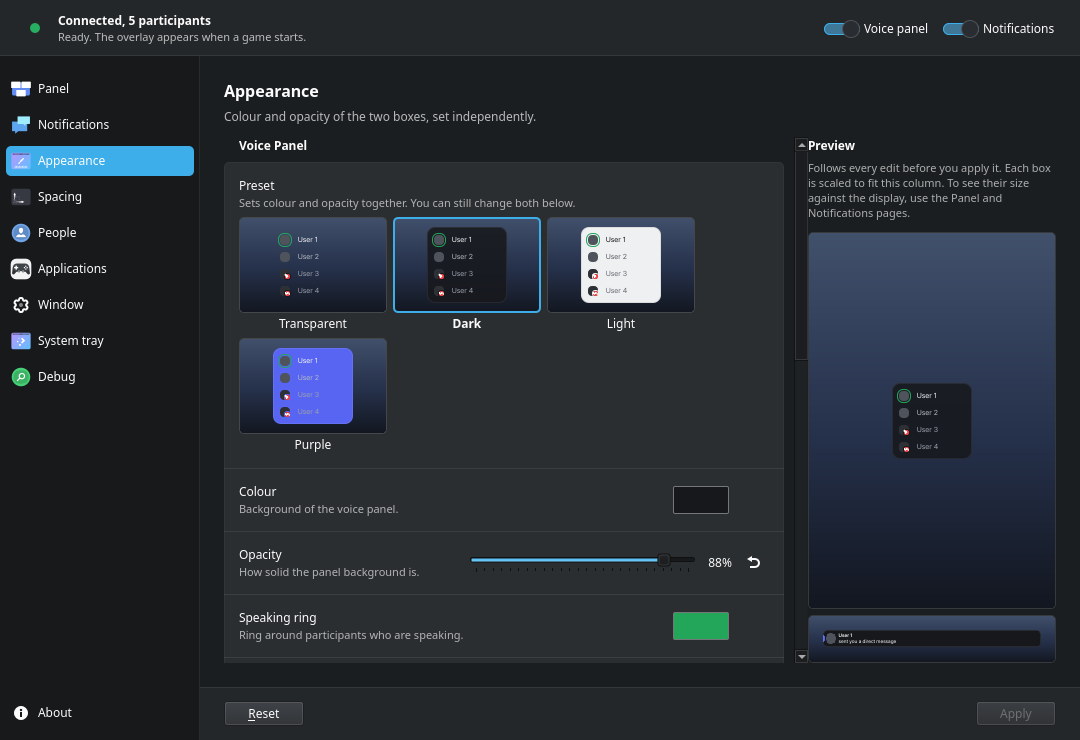
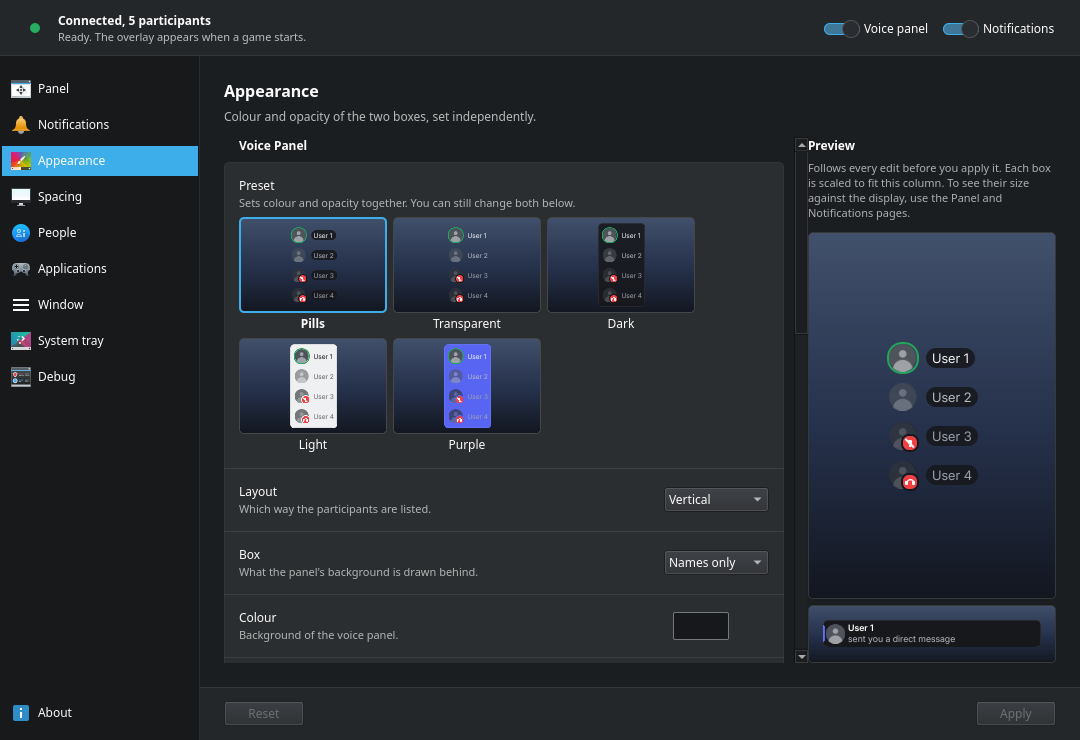
words: the numbers that ship, the picture that ships, and the file that says which packages may not be deleted
The README said the font atlas is "a few megabytes" where the same tree says
80 MB in three places, called the shim 14 KB where it has been 18,728 bytes
since 0.1.4, promised that uploads and font rebuilds never happen inside a
frame -- which is false for OpenGL by design, where the swap call is all there
is -- and gave the detection's four signals with the first two swapped, an
order entry 97 is the defect behind. Its Appearance screenshot was dated
3 August and showed four presets, no Box control and no Quiet avatars slider,
two lines under a sentence naming five; it is what Discover shows too.
Retaken offscreen, in a sandbox with a synthetic channel, at the same size.

packaging/EXEMPLARS.md searched for `0\.1\.0-[0-9]+` and then said the later
packages are rebuildable and under no rule -- so it gave a clean-up permission
to delete the only defective binaries for entries 103, 138, 139, 140, 144-147
and this month's daemon measurements. Six are named now, with whether each can
actually be rebuilt: two can, and 73 of the 88 packages here came from a
recipe that is not in git at all.

Also: __pycache__ and the two font files the ignore pattern missed.

DESIGN 158, 176, 181.

diff --git a/packaging/EXEMPLARS.md b/packaging/EXEMPLARS.md
@@ -7,9 +7,12 @@ for a test that fails against the defective binary, and for the pre-git era the
 packaged artifact is the only defective binary there is.
 
 Which of them anything still names, so that a clean-up knows what it may not
-touch. Found with `grep -ohE '0\.1\.0-[0-9]+' DESIGN.md tests/ CLAUDE.md`;
-the rest of the 0.1.0 series is kept with them, since a citation can be added
-at any time and a package cannot be rebuilt.
+touch. Found with
+`grep -rohE '0\.1\.[0-9]+-[0-9]+' DESIGN.md CLAUDE.md tests/ | sort -u -V` --
+the version that stood here was hardcoded to `0\.1\.0-`, so it could not find
+a later exemplar even in principle, and six had quietly become one. The rest of
+the 0.1.0 series is kept with them, since a citation can be added at any time
+and a package cannot be rebuilt.
 
 | Package | Cited by |
 | --- | --- |
@@ -24,5 +27,42 @@ at any time and a package cannot be rebuilt.
 | 0.1.0-64, -65 | `tests/CMakeLists.txt`, the window tests (padding, empty views, the moved channel) |
 | 0.1.0-67 | `tests/gl_unpack_state.cpp` (the ES3 GL_INVALID_ENUM the backend leaves) |
 
-The packages from 0.1.2 on are rebuilds of tagged releases; a tag can be
-rebuilt with `PKGBUILD`, so they are under no such rule.
+## And six later ones, which this file used to give away
+
+| Package | Cited by | Rebuildable? |
+| --- | --- | --- |
+| 0.1.3-1 | DESIGN entry 94 (the 32-bit hardening, 0 `_chk` symbols) | **yes** -- `PKGBUILD` at `#tag=v0.1.3` |
+| 0.1.3-7 | `tests/daemon_reconnect.cpp`, `tests/CMakeLists.txt`, DESIGN 103 (2215 connections in five seconds) | **no** -- built from `PKGBUILD.local` two commits before the v0.1.3 tag |
+| 0.1.4-1 | `tests/display_change_while_open.cmake`, `tests/daemon_note_expiry.cpp`, `tests/version_agrees.cmake`, DESIGN 103/110/111/112 | **yes** -- `PKGBUILD` at `#tag=v0.1.4` |
+| 0.1.8-1 | DESIGN 138/139/140 (the bridge's drawing flag, the window's four spawns, two windows) | **no** -- its recipe hash is in no git object at all |
+| 0.1.10-1 | `tests/fonts_lifecycle.cpp`, `tests/gl_context_cycle.cpp`, `tests/CMakeLists.txt`, DESIGN 144/145 | from a commit, not a tag: there is no `v0.1.10` |
+| 0.1.10-2 | `tests/gl_inside_gamescope.cmake`, `tests/vk_present_draw.cpp`, DESIGN 147, and entries 159-164's daemon measurements | **no** -- built from an uncommitted working tree |
+
+**So "a tag can be rebuilt" was true of two of the six.** The sentence that
+stood here -- "The packages from 0.1.2 on are rebuilds of tagged releases; a
+tag can be rebuilt with `PKGBUILD`, so they are under no such rule" -- gave a
+clean-up permission to delete the only defective binaries for entries 103, 138,
+139, 140, 144, 145, 146, 147 and the September repairs. Measured corpus-wide:
+**73 of the 88 packages here were built from a recipe that is not in git** (63
+pre-git plus ten intermediate pkgrels), and three of them -- 0.1.8-1, 0.1.8-2
+and 0.1.10-2 -- from a recipe that exists in no blob anywhere in this
+repository. `packaging/*.pkg.tar.*` is in `.gitignore`, so no copy exists
+anywhere else either.
+
+**Nothing in this directory is deleted without checking this table first**, and
+the table is regenerated with the grep above rather than edited by hand.
+
+## What an exemplar cannot refute for ever
+
+`kAbiVersion` has been 6 since the first commit, so 0.1.0-10 -- entry 129's
+exemplar -- refutes "did anything reach the framebuffer" rather than the
+present hook itself: its failure reads `state read failed (abi mismatch or
+writer contention)`. **Every future ABI bump converts one more historical
+exemplar's refutation into an ABI mismatch**, while the record goes on reading
+"the test fails against the old binary". Written here because it is true of the
+artifacts and of nothing in DESIGN.
+
+Entries 144 and 145 leave no artifact trace at all: the fonts module is a
+statically linked, hidden-visibility unit, so there is no cheap way to tell
+0.1.10-1's defective copy from -2's fixed one except by running the test --
+which makes those tests the whole record.

diff --git a/README.md b/README.md
@@ -236,8 +236,8 @@ VOCEM_DISABLE=1 the-game
 #### 1.2 OpenGL
 
 OpenGL has no layer mechanism, so the library is preloaded instead. The package
-installs a 14 KB shim and an `environment.d` file that preloads it into everything
-you start after your next login.
+installs an 18 KB shim and an `environment.d` file that preloads it into
+everything you start after your next login.
 
 To start one program with it, without the session-wide preload:
 
@@ -256,10 +256,14 @@ overlay does not draw on the launcher itself.
 The overlay appears in games and leaves everything else alone. It decides from,
 in order:
 
-* a Steam app id in the environment
-* a launcher's own identifiers: Lutris, Heroic, umu, gamescope, Minecraft
-* the game's own arguments
-* the desktop entry it was started from
+* a launcher's own identifier: Lutris, Heroic or Prism, each of which names the
+  game itself
+* a Steam app id, when it is digits and not all zero
+* the identifiers that only say a game is being run: umu, itch, gamescope
+* the game's own arguments, which is how Minecraft under Mojang's launcher is
+  found
+* the desktop entry it was started from, and failing that the one installed
+  entry that names this program
 
 The **Applications** page lists everything it was loaded into and what it found for
 each. The switch beside a row overrides the verdict either way, and reaches a
@@ -395,13 +399,21 @@ the source.
 
 ### 5. What it costs a game
 
-* A program that never draws a frame pays for one 14 KB mapping.
-* A program that draws but is not a game loads the overlay library, about 260 kB
-  resident, decides once, and draws nothing. On a desktop session that is most
-  graphical applications.
-* A game that gets the overlay also holds its font atlas, a few megabytes.
-* Uploads and font rebuilds happen after the frame has been presented, never
-  during it.
+* A program that never draws a frame pays for one mapping of an 18 KB file: 24 kB
+  resident, 8 kB of that its own share, measured in three processes of a live
+  session.
+* A program that draws but is not a game loads the overlay library, 56 kB
+  resident and 20 kB of it its own share on the same measurement, decides once,
+  and draws nothing. On a desktop session that is most graphical applications.
+* A game that gets the overlay also holds its font atlas, and that is the large
+  number: 16 MB of glyph coverage plus a 64 MB RGBA copy at a 4K display's text
+  size, 80 MB in all. It is built at the first frame that draws something and
+  kept until the overlay is switched off, the daemon stops, or the game exits.
+  Six fonts are merged into each of two weights, which is what buys the coverage.
+* The Vulkan layer does its expensive work after the frame has been presented:
+  the font atlas and every avatar upload. The OpenGL interposer has no
+  after-the-present to work in, because it is the swap call itself, so its
+  uploads and its atlas builds are inside that call, one upload per frame.
 
 ### 6. OpenGL games
 
